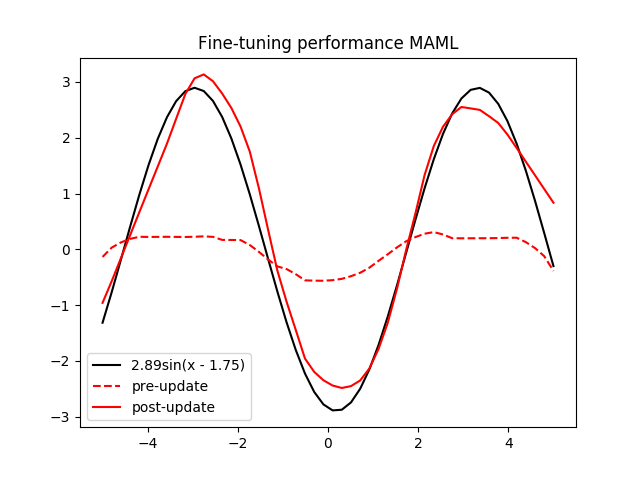
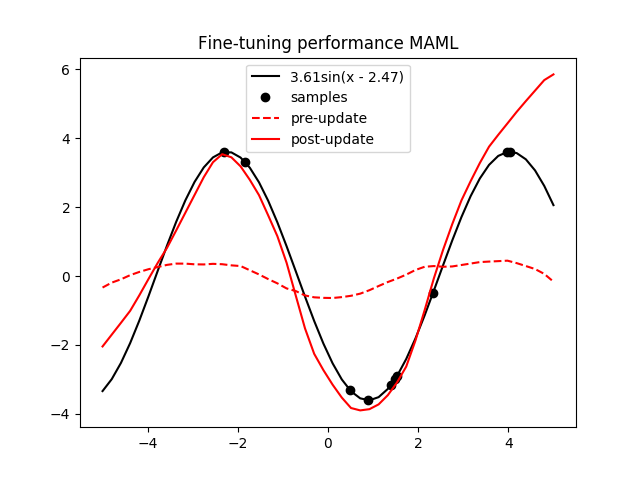
update img format and more progress on explanation :

diff --git a/maml.py b/maml.py
@@ -372,7 +372,7 @@ def test():
     pre_weights['random'] = build_weights()
 
     # Generate N batches of data, with same shape as training, but that all have the same amplitude and phase
-    N = 10
+    N = 2
     #sinegen = SinusoidGenerator(FLAGS.inner_bs*N, 1, config={'input_range':[1.0,5.0]}) 
     sinegen = SinusoidGenerator(FLAGS.inner_bs*N, 1)
     x, y, amp, phase = map(lambda x: x[0], sinegen.generate()) # grab all the first elems
@@ -385,7 +385,7 @@ def test():
     for key in pre_weights:
         post_weights[key] = deepcopy(pre_weights[key])
 
-    T = 1
+    T = 10
     # Run fine-tuning 
     for key in post_weights:
         for t in range(T):
@@ -415,11 +415,13 @@ def test():
         y_pre = np.array([sine_pre_pred(np.array(x), key) for x in x_vals]).squeeze()
         y_nn = np.array([sine_post_pred(np.array(x), key) for x in x_vals]).squeeze()
         plt.plot(x_vals, y_ground, 'k', label='{:.2f}sin(x - {:.2f})'.format(amp, phase))
+        plt.plot(np.concatenate(xs), np.concatenate(ys), 'ok', label='samples')
         plt.plot(x_vals, y_pre, colors[key]+'--', label='pre-update')
         plt.plot(x_vals, y_nn, colors[key]+'-', label='post-update')
 
         plt.legend()
         plt.title('Fine-tuning performance {}'.format(name[key]))
+        plt.savefig(key+'.png')
         plt.show()
 
 def train():
@@ -483,7 +485,7 @@ def train():
 
 if __name__ == '__main__':
     parser = argparse.ArgumentParser(description='MAML')
-    parser.add_argument('--seed', type=int, default=1, help='')
+    parser.add_argument('--seed', type=int, default=2, help='')
     parser.add_argument('--gradcheck', type=int, default=0, help='Run gradient check and other tests')
     parser.add_argument('--test', type=int, default=0, help='Run test on trained network to see if it works')
     parser.add_argument('--meta_lr', type=float, default=1e-3, help='Meta learning rate')

diff --git a/README.md b/README.md
@@ -3,10 +3,8 @@
 This is an implementation of vanilla Model-Agnostic Meta-Learning ([MAML](https://github.com/cbfinn/maml))
 in raw numpy.  I made this to better understand the algorithm and what exactly it is doing.  I derived
 the forward and backward passes following conventions from [CS231n](http://cs231n.github.io/).
-
 This code is just a rough sketch to understand the algorithm better, so it works, but 
 is not optimized or well parameterized.  
-
 This turned out to be pretty interesting and I found it helps to see the algorithm 
 logic without the backprop abstracted away by an autograd package like TensorFlow.
 
@@ -21,18 +19,13 @@ logic without the backprop abstracted away by an autograd package like TensorFlo
 ## Results
 
 To verify my implementation, I test on the sinusoid task from [Section 5.1](https://arxiv.org/pdf/1703.03400.pdf)
-of the MAML paper.
-
-I train for _x_ iterations on the training dataset, and then fine-tune on _x_.
-
-
-These figures show comparisons between fine-tuning on 10 minibatches of 5 for MAML,
-a joint-training baseline (trained on same data as MAML
-
-
-These figures show MAML fine-tuning on 10 minibatches of 5, and against a baseline
-that used joint training on the dataset (first plot), and against a random 
-intialized network (second plot).
+of the MAML paper.  I train for 10k iterations on a training dataset of sine
+function with randomly sampled amplitude and phase, 
+and then fine-tune on 10 examples for a fixed amplitude
+and phase.  After fine-tuning, I predict the value of the fixed sine function 
+for 50 evenly distributed x values between (-5, 5), and plot the results
+compared to the ground truth for pre-trained MAML, pre-trained baseline
+(joint training), and a randomly initialized network.  
 
 MAML                       |  Baseline (joint training)|  Random init
 :-------------------------:|:-------------------------:|:----------:|  
@@ -40,30 +33,27 @@ MAML                       |  Baseline (joint training)|  Random init
 
 Here are the commands to the run the code:
 
-Run 10k iterations and then save the weights to a file: <br>
-```
-python3 maml.py # train the MAML and baseline (joint trained) weights
-```
-
-Fine tune the network and plot results on sine task: <br>
-```
-python maml.py --test 1  
-```
-
-
-You can also do gradient check with:
-
-```
-python maml.py --gradcheck 1  
-```
+- Train for 10k iterations and then save the weights to a file: <br>
+	```
+	python3 maml.py # train the MAML and baseline (joint trained) weights
+	```
+- After training, fine-tune the network and plot results on sine task: <br>
+	```
+	python3 maml.py --test 1  
+	```
+- Run gradient check on implementation:
+	```
+	python3 maml.py --gradcheck 1  
+	```
 
 
-You can also try maml_2layer.py.  I originally tried using a single hidden layer
-because this made the derivation easier, but I found that it did not have enough
-it did not have enough representational capacity to solve the sinusoid problem.
-This seems to be because MAML gains power from having more layers, as described
-in [Meta-Learning And Universality](https://arxiv.org/pdf/1710.11622.pdf).
-This maml_2layer.py file is shorter and easier to understand, but does not produce good results.
+### Notes
+These results come from using a neural network with 2 hidden layers.  I 
+originally tried using 1 hidden layer because it was easier to derive, but I 
+found that it did not have enough it did not have enough representational 
+capacity to solve the sinusoid problem (see [Meta-Learning And Universality](https://arxiv.org/pdf/1710.11622.pdf) for more details on represenntational capacity of MAML).
+
+So the `maml_1hidden.py` file is shorter and easier to understand, but does not produce good results.
 
 <a id="whatismaml"/>
 
@@ -71,66 +61,72 @@ This maml_2layer.py file is shorter and easier to understand, but does not produ
 
 ### Introduction
 
-Model-Agnostic Meta-Learning is a gradient based meta-learning algorithm.  For an
+Model-Agnostic Meta-Learning (MAML) is a gradient based meta-learning algorithm.  For an
 overview of meta-learning, see a blog post from the author [here](https://bair.berkeley.edu/blog/2017/07/18/learning-to-learn/). 
 Basically meta-learning tries to solve the problem of being able to learn 
 quickly on new tasks by better incorporating past information from previous tasks.
 It has some similar motivations to transfer learning, but better incentivizes for
-quick adaptation, for example one-shot learning: given a single instance of, for
-example, a Segway, be able to distinguish Segways from other objects in new images.
+quick adaptation.  One example of where meta-learning methods greatly 
+outperform traditional methods is one-shot learning (e.g., given a single 
+instance of a new object class like Segway, quickly adapt your model so that
+you can effectively distinguish new images of Segways from other objects).
 
-As opposed to other meta-learning techniques that use RNNs, MAML only uses feed-forward
-networks and gradient descent.  The interesting thing is how it sets up the gradient
-descent scheme to optimize the network for efficient fine-tuning on the meta-test set.
+Unlike several other meta-learning methods (TODO: cite), MAML only uses 
+feed-forward networks and gradient descent.  The interesting thing is how it 
+sets up the gradient descent scheme to optimize the network for efficient 
+fine-tuning on the meta-test set.
+In standard neural network training, we use gradient-descent and backprop for 
+training.  MAML assumes that you will use this same approach to quickly 
+fine-tune on your task and it builds this into the training optimization.
 
-
-In the simplest case, you can think of it as doing 2 forward passes. It does:
-1. Forward pass with W
-1. Backward pass to compute gradients dWa
-1. Apply gradients dW (using SGD: W' <-- W - alpha\*dWa)
-1. Another forward pass with W'
-1. Backward pass through the whole thing to compute gradients dWb (NOTE: with respect to input weights W, not W'.  This is a second order derivative)
-1. Apply gradients dW' (using Adam: W <-- W - alpha\*dWb)
-
-
-TODO: equation of gradient descent
-
-
-
-
-In standard neural network training, we use gradient-descent and backprop.
-
-MAML
-assumes that you will use this same method to 
-
-MAML assumes that you are going to use gradient-descent step (normal neural network training)
-to fine-tune on the meta-test set, and it builds this into the training and meta optimization.
-
-It is broken into two phases: a meta-traning phase and a fine-tuning phase.  The meta-training phase is going to work to optimize the network parameters so that the fine-tune phase works extremely well, so that the network parameters will be sensitive to gradients and can
-quickly adapt to solve tasks in the distribution.
-
-This is inspired off the great success of ImageNet fine-tuning.  But it is 
-different from joint-training, and has a fine-tune step that is required, and
-does a much better job at solving tasks where a joint-training solution does not correspond
-to doing well on individual examples.  For instance, by always predicting 0 for a sinusoid 
-regression task where phase can vary.
-
+MAML breaks the training into two phases: a **meta-traning phase** and a **fine-tuning phase**.  The meta-training phase is going to work to optimize the network parameters so that the fine-tune phase works extremely well — so that the network parameters will be sensitive to gradients and can
+quickly adapt to solve tasks in the distribution.  The fine-tuning phase will just
+run standard gradient descent using the weights that were produced in the meta-training phase (this looks pretty similar to fine-tuning on pre-trained ImageNet weights,
+but it produces better results on meta-learning problems like one-shot learning).
 
 ### Meta-training
-**During meta-training**, it splits the data into A and B examples.  The A example
-will be used for an inner optimization (standard gradient descent), and the B examples
-will be used for an outer optimization.
+During meta-training, MAML splits the data into A and B examples.  The A example
+will be used for an inner optimization (standard gradient descent), and the B 
+examples will be used for an outer optimization.
 
+The standard equation for gradient descent looks like this equation, where the
+the gradient is taken with respect to the loss and this is used to update the
+neural network weights (in this case to theta prime). 
 
-TODO: something
 ![eq1](./assets/eq1.png)
 
-TODO: other something
+We will use this at fine-tune time and so we want it to optimize it to do really
+well. The approach that MAML chooses to do this is by optimizing the parameters
+(theta) so that they will be in a position that they can be quickly fine-tuned
+for a number of tasks in the task distribution.  Just a skip away from a good
+solution to many of the tasks.  Why not just optimize to be good at those
+tasks in the first place?  Well sometimes they can be mutually exclusive.  The
+simplest example is the sinusoid, where this standard joint training approach
+always predicts 0.
+
+
+we want it to be really efficient. We
+want it to be the case that after we run this fine-tuning step, the weights
+will be in a good place to produce good results. We can't just keep them in
+a good place for all tasks.  For example, the joint training solution for
+the sinusoid task is always predicting 0. But we want to be able to quickly
+update them so that they will be in a good location for our specific sinusoid
+problem.  So how to optimize the weights so that this will happen.
+
+We care about the performance after a gradient update, so we can just wrap
+that in an outer optimization.  The inner optimization is the gradient
+update, and the outer optimization is also gradient descent (or usually Adam).
+You could have the outer optimization be evolution (they do this in this paper,
+but they use way more compute and get about similar results, maybe worse https://arxiv.org/abs/1806.07917). Using gradient descent on the outer optimization looks like:
+
 ![eq2](./assets/eq2.png)
 
+With the f theta prime, that is the updated weights.  We run gradient descent
+such that after the update, the network is good at predicting new examples.
+The inner update is done with A examples and the outer update is done with
+B examples for the same task.  We basically use test error to train the network.
+As you might be able to infer, this is a second order method that requires running backpropagation twice.
 
-
-This is a second order method that requires running backpropagation twice.
 
 **Here is some pseudocode that matches Chelsea's implementation of MAML in TensorFlow:**
 
@@ -163,6 +159,15 @@ This seems like of a stange thing to do. But basically the effect is
 You can also run more than one step.  Maybe you would run the fast weights update
 multiple times.
 
+### MAML algorithm
+
+In the simplest case, you can think of it as doing 2 forward passes. It does:
+1. Forward pass with W
+1. Backward pass to compute gradients dWa
+1. Apply gradients dW (using SGD: W' <-- W - alpha\*dWa)
+1. Another forward pass with W'
+1. Backward pass through the whole thing to compute gradients dWb (NOTE: with respect to input weights W, not W'.  This is a second order derivative)
+1. Apply gradients dW' (using Adam: W <-- W - alpha\*dWb)
 
 
 ### Fine-tuning
@@ -192,7 +197,7 @@ prediction = forward(newInputAToPredictLabelFor, fast_weights)
 
 
 ### Notes
-Beyond the scope of this paper, Chelsea Finn and colleagues have done some 
+Beyond the scope of this README, Chelsea Finn and colleagues have done some 
 interesting further work on extending MAML and applying it to robotics problems.
 Particularly, being able to use a learned loss is extremely interesting.
 
@@ -209,7 +214,8 @@ the computation for a one hidden-layer neural network for simplicity, but
 in the code I use a two hidden-layer neural network.
 
 NOTE: (dW2, db2, dW1, db1) are computed in the upper figure and passed to the lower
-figure. Gradients are taken w.r.t. weights that are inputs to upper figure.
+figure. Gradients are taken w.r.t. weights that are inputs to upper figure. I
+use the approach from [CS231n](http://cs231n.github.io/).
 
 **First (inner) forward and backward:**
 
@@ -217,7 +223,4 @@ figure. Gradients are taken w.r.t. weights that are inputs to upper figure.
 
 **Inner gradient (SGD) update and second forward pass:**
 ![derivation2](/assets/derivation2.png)
-
-
-
 
